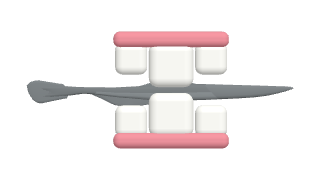
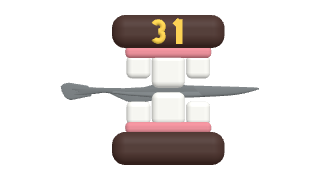
feat: 추멸치를 문 이가 배정빈 거라는 게 보이게
- 이를 감싼 짙은 갈색 턱(XXL배정빈 몸 색 #4e342e)을 위아래에 붙이고,
  위턱 옆면에 XXL배정빈 등번호 노란 "31"을 넣었다
- 도감 README 의 이 물고기 사진도 다시 찍었다 (한 장짜리 fish-dex.png 는 그대로)

Changed region(s): [[0.0625, 0.0833, 0.9375, 0.9167]]

diff --git a/src/game/scene/fishing/studyAccessories.ts b/src/game/scene/fishing/studyAccessories.ts
@@ -473,6 +473,7 @@ const clampTeeth = (shape: FishShape) => {
   const s = sectionAt(shape, BODY_Z)
   const white = mat('#fbfbf6', { rough: 0.25 })
   const gum = mat('#ec8f9a', { rough: 0.7 })
+  const jaw = mat('#4e342e', { rough: 0.6 })
   const w = 0.2 // 앞뒤(z) 폭
   const h = 0.2 // 이 높이
   const t = 0.16 // 두께(x)
@@ -486,7 +487,17 @@ const clampTeeth = (shape: FishShape) => {
     for (const side of SIDES) g.add(part(new RoundedBoxGeometry(t * 0.85, h * 0.72, w * 0.72, 3, 0.035), white, [0, edge + up * h * 0.64, BODY_Z + side * w * 0.9]))
     // 이 뿌리 쪽 잇몸
     g.add(part(new RoundedBoxGeometry(t * 1.15, 0.07, w * 2.6, 3, 0.03), gum, [0, edge + up * (h + 0.015), BODY_Z]))
+    // 잇몸을 감싼 XXL배정빈의 짙은 갈색 턱 (이가 누구 건지 보이게)
+    g.add(part(new RoundedBoxGeometry(t * 1.9, 0.2, w * 3.4, 4, 0.08), jaw, [0, edge + up * (h + 0.14), BODY_Z]))
   }
+  // 위턱 옆면에 XXL배정빈 등번호 31
+  const numH = 0.15
+  const tube = numH * 0.12
+  const upperEdge = s.top - bite
+  const num = readableFromBothSides(new Mesh(digitGeometry('31', numH, tube, t * 0.95 + tube * 0.2), mat('#ffd54f', { rough: 0.5 })))
+  num.position.set(0, upperEdge + h + 0.14, BODY_Z)
+  num.rotation.y = -HALF_PI
+  g.add(num)
   return g
 }
 
